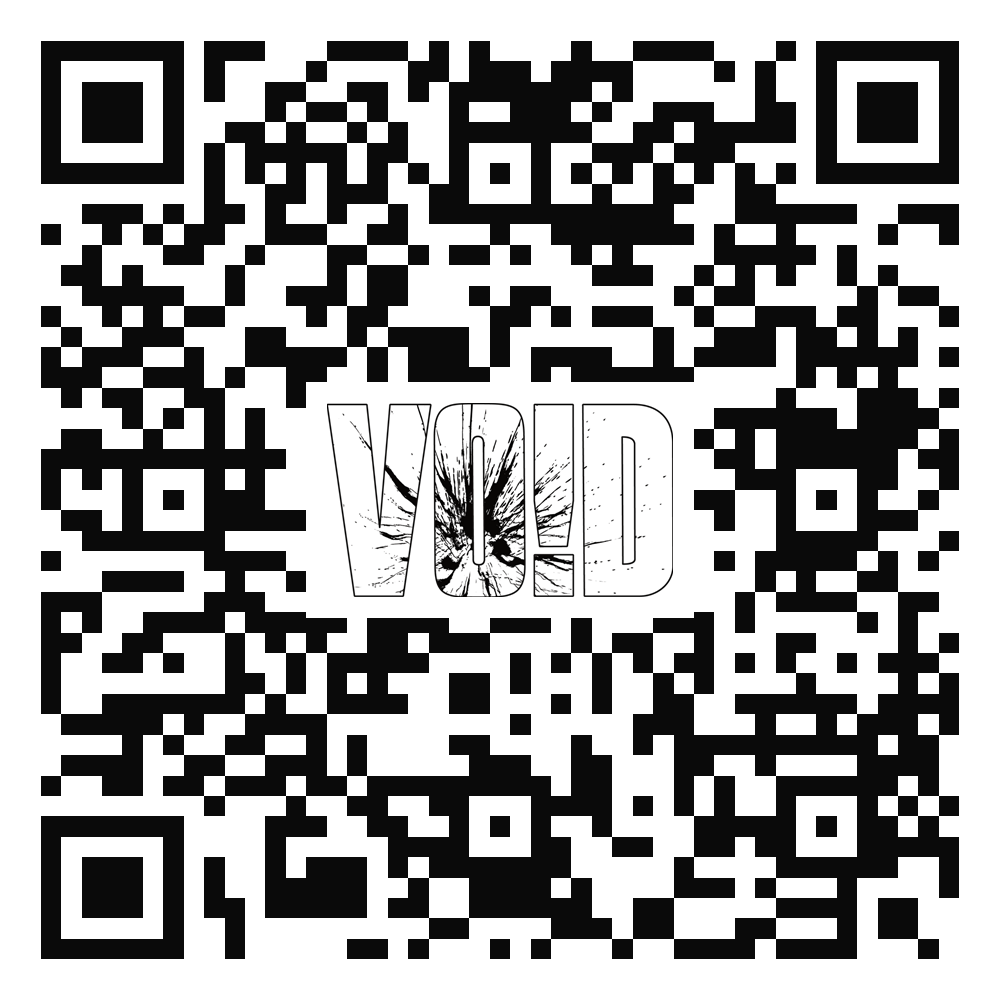
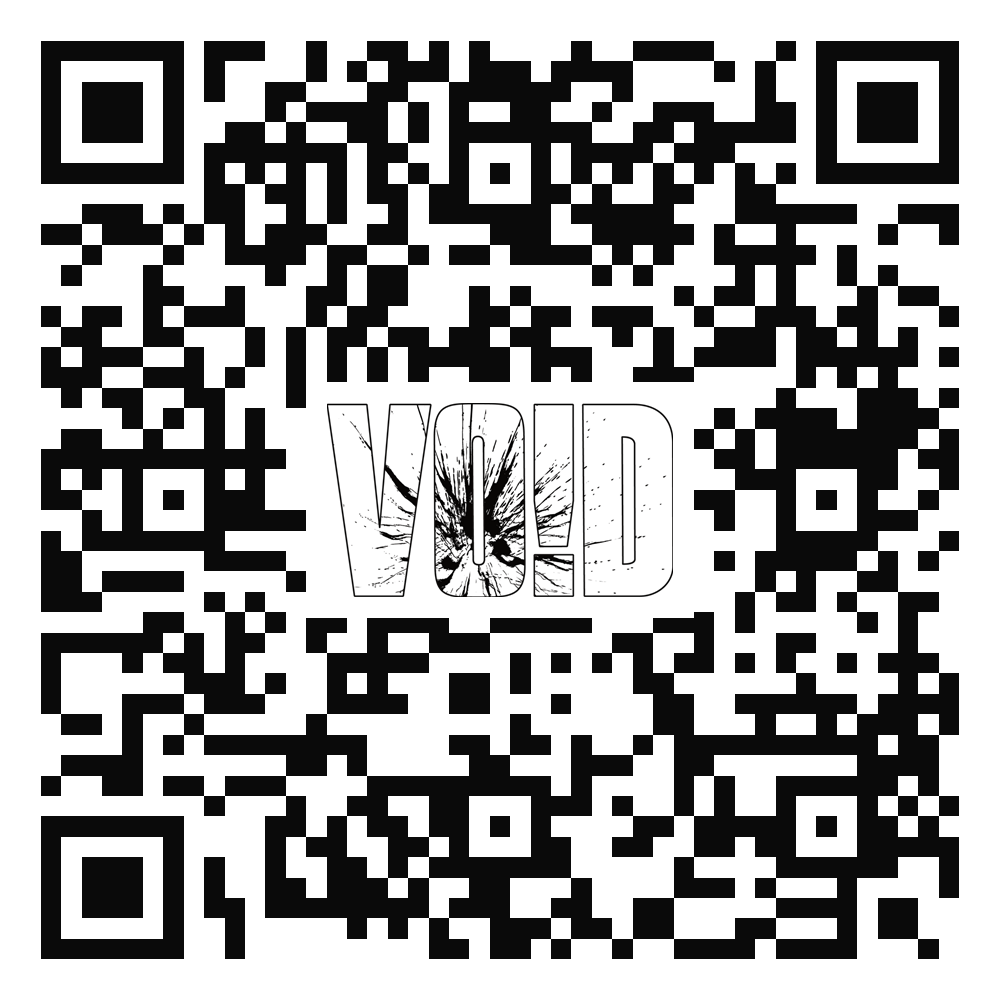
bug fixes 1

diff --git a/epk.html b/epk.html
@@ -46,7 +46,11 @@
 
   <nav id="nav">
     <a href="index.html" class="nav-logo"><img src="assets/images/logo.png" alt="VO!D"></a>
-    <ul class="nav-links">
+    <!-- mobile menu button (shown at 900px and narrower; see assets/js/nav.js) -->
+    <button type="button" class="nav-toggle" aria-label="Menu" aria-expanded="false" aria-controls="nav-links">
+      <span></span><span></span><span></span>
+    </button>
+    <ul class="nav-links" id="nav-links">
       <li><a href="index.html#music">Music</a></li>
       <li><a href="shows.html">Shows</a></li>
       <li><a href="index.html#about">About</a></li>
@@ -363,13 +367,13 @@
           <p class="contact-value">
             <!-- CHANGE: replace with the custom domain once CNAME is set.
                  If the URL changes, regenerate assets/press/qr-site.* too. -->
-            <a href="https://sickness-31.github.io/void-band/">sickness-31.github.io/void-band</a>
+            <a href="https://sickness-31.github.io/VOID-BAND/">sickness-31.github.io/VOID-BAND</a>
           </p>
         </div>
       </div>
       <div class="qr-block">
         <!-- QR to the site. Files in assets/press/ (svg for print, png for web). -->
-        <img src="assets/press/qr-site.svg" alt="QR code: sickness-31.github.io/void-band" class="qr-img">
+        <img src="assets/press/qr-site.svg" alt="QR code: sickness-31.github.io/VOID-BAND" class="qr-img">
         <div class="press-meta">
           <span>Scan for the site</span>
           <a href="assets/press/qr-site.svg" download class="text-link">SVG ↓</a>
@@ -395,6 +399,7 @@
   <script src="data/shows.js"></script>
   <script src="assets/js/credits.js"></script>
   <script src="assets/js/shows.js"></script>
+  <script src="assets/js/nav.js"></script>
   <script>
     // PDF Version buttons. Light = add a class the print CSS keys off, print, remove it.
     document.querySelectorAll('[data-print]').forEach(function (btn) {

diff --git a/assets/css/site.css b/assets/css/site.css
@@ -138,6 +138,27 @@ position: fixed means it stays visible as you scroll
   color: var(--dirty);
 }
 
+/* three-bar menu button — hidden on desktop, shown by the 900px rule below */
+.nav-toggle {
+  display: none;
+  background: none;
+  border: none;
+  padding: 0.5rem;
+  cursor: pointer;
+}
+.nav-toggle span {
+  display: block;
+  width: 22px;
+  height: 2px;
+  background: var(--dirty);
+  margin: 4px 0;
+  transition: transform 0.15s, opacity 0.15s;
+}
+/* turns into an X when open */
+#nav.open .nav-toggle span:nth-child(1) { transform: translateY(6px) rotate(45deg); }
+#nav.open .nav-toggle span:nth-child(2) { opacity: 0; }
+#nav.open .nav-toggle span:nth-child(3) { transform: translateY(-6px) rotate(-45deg); }
+
 /*
 ================================================================
 HERO — the first full-screen section the visitor sees
@@ -824,9 +845,36 @@ apply these styles instead"
     gap: 3rem;
   }
 
-  /* hide nav links on mobile — a hamburger menu would go here eventually */
+}
+
+/*
+  MOBILE MENU — 900px and narrower. The link row would overflow the
+  screen here, so it becomes a panel under the bar, opened by .nav-toggle
+  (assets/js/nav.js adds/removes the .open class on #nav).
+*/
+@media (max-width: 900px) {
+  #nav {
+    flex-wrap: wrap;             /* lets the panel drop below the logo/button row */
+  }
+  .nav-toggle {
+    display: block;
+  }
   .nav-links {
     display: none;
+    flex-direction: column;
+    gap: 0;
+    width: 100%;
+    margin-top: 1rem;
+    border-top: 1px solid var(--dim);
+  }
+  #nav.open .nav-links {
+    display: flex;
+  }
+  .nav-links a {
+    display: block;
+    padding: 1rem 0;             /* big tap targets */
+    font-size: 14px;
+    border-bottom: 1px solid var(--dim);
   }
 }
 

diff --git a/assets/js/nav.js b/assets/js/nav.js
@@ -1,0 +1,33 @@
+/*
+  ====================================================================
+  VO!D — MOBILE NAV
+  assets/js/nav.js
+
+  On screens 900px and narrower the nav links are hidden behind a
+  three-bar button (see .nav-toggle in assets/css/site.css). This
+  toggles them open and closed. Nothing to edit here for content —
+  the links live in each page's <nav>.
+  ====================================================================
+*/
+(function () {
+  'use strict';
+  var nav = document.getElementById('nav');
+  var btn = nav && nav.querySelector('.nav-toggle');
+  if (!nav || !btn) return;
+
+  function setOpen(open) {
+    nav.classList.toggle('open', open);
+    btn.setAttribute('aria-expanded', open ? 'true' : 'false');
+  }
+
+  btn.addEventListener('click', function () {
+    setOpen(!nav.classList.contains('open'));
+  });
+  // tapping a link closes the panel (matters for same-page #anchors)
+  nav.querySelectorAll('.nav-links a').forEach(function (a) {
+    a.addEventListener('click', function () { setOpen(false); });
+  });
+  document.addEventListener('keydown', function (e) {
+    if (e.key === 'Escape') setOpen(false);
+  });
+})();

diff --git a/index.html b/index.html
@@ -74,7 +74,11 @@
   <nav id="nav">
     <!-- CHANGE: clicking this takes you back to the top of the page -->
     <a href="#hero" class="nav-logo"><img src="assets/images/logo.png" alt="VO!D"></a>
-    <ul class="nav-links">
+    <!-- mobile menu button (shown at 900px and narrower; see assets/js/nav.js) -->
+    <button type="button" class="nav-toggle" aria-label="Menu" aria-expanded="false" aria-controls="nav-links">
+      <span></span><span></span><span></span>
+    </button>
+    <ul class="nav-links" id="nav-links">
       <!-- each href="#music" scrolls to <section id="music"> below -->
       <li><a href="#music">Music</a></li>
       <li><a href="shows.html">Shows</a></li>
@@ -592,5 +596,6 @@
   <!-- show list: data first, then the renderer that reads it -->
   <script src="data/shows.js"></script>
   <script src="assets/js/shows.js"></script>
+  <script src="assets/js/nav.js"></script>
 </body>
 </html>

diff --git a/shows.html b/shows.html
@@ -35,7 +35,11 @@
   <!-- NAVIGATION — same links as index.html, pointed back at the homepage -->
   <nav id="nav">
     <a href="index.html" class="nav-logo"><img src="assets/images/logo.png" alt="VO!D"></a>
-    <ul class="nav-links">
+    <!-- mobile menu button (shown at 900px and narrower; see assets/js/nav.js) -->
+    <button type="button" class="nav-toggle" aria-label="Menu" aria-expanded="false" aria-controls="nav-links">
+      <span></span><span></span><span></span>
+    </button>
+    <ul class="nav-links" id="nav-links">
       <li><a href="index.html#music">Music</a></li>
       <li><a href="shows.html">Shows</a></li>
       <li><a href="index.html#about">About</a></li>
@@ -89,5 +93,6 @@
   <script src="data/shows.js"></script>
   <script src="assets/js/credits.js"></script>
   <script src="assets/js/shows.js"></script>
+  <script src="assets/js/nav.js"></script>
 </body>
 </html>

diff --git a/README.md b/README.md
@@ -158,7 +158,7 @@ Press-photo captions (size + photographer) are read automatically from each JPEG
 1. Push this repo to GitHub (must be **public**)
 2. Go to the repo → Settings → Pages
 3. Source: Deploy from branch → `main` → `/root` → Save
-4. Site goes live at `https://yourusername.github.io/void-band`
+4. Site goes live at `https://sickness-31.github.io/VOID-BAND/` — note the capitals: GitHub Pages uses the repo name exactly as cased on GitHub, and lowercase 404s.
 
 ## Adding a custom domain
 
